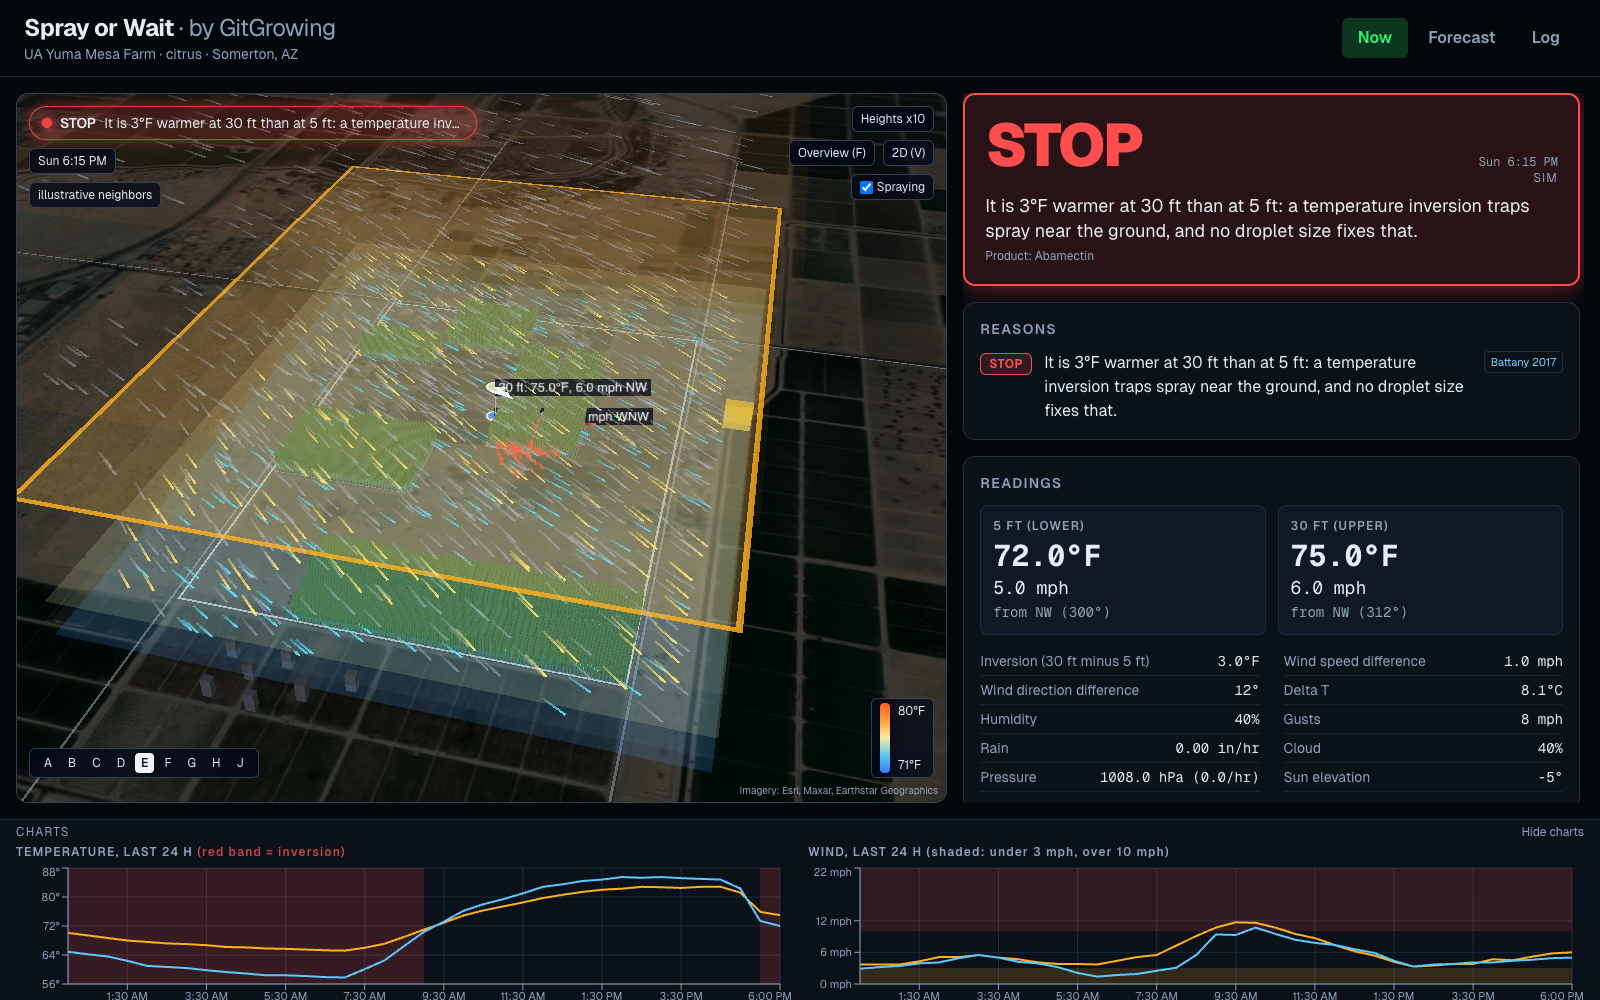
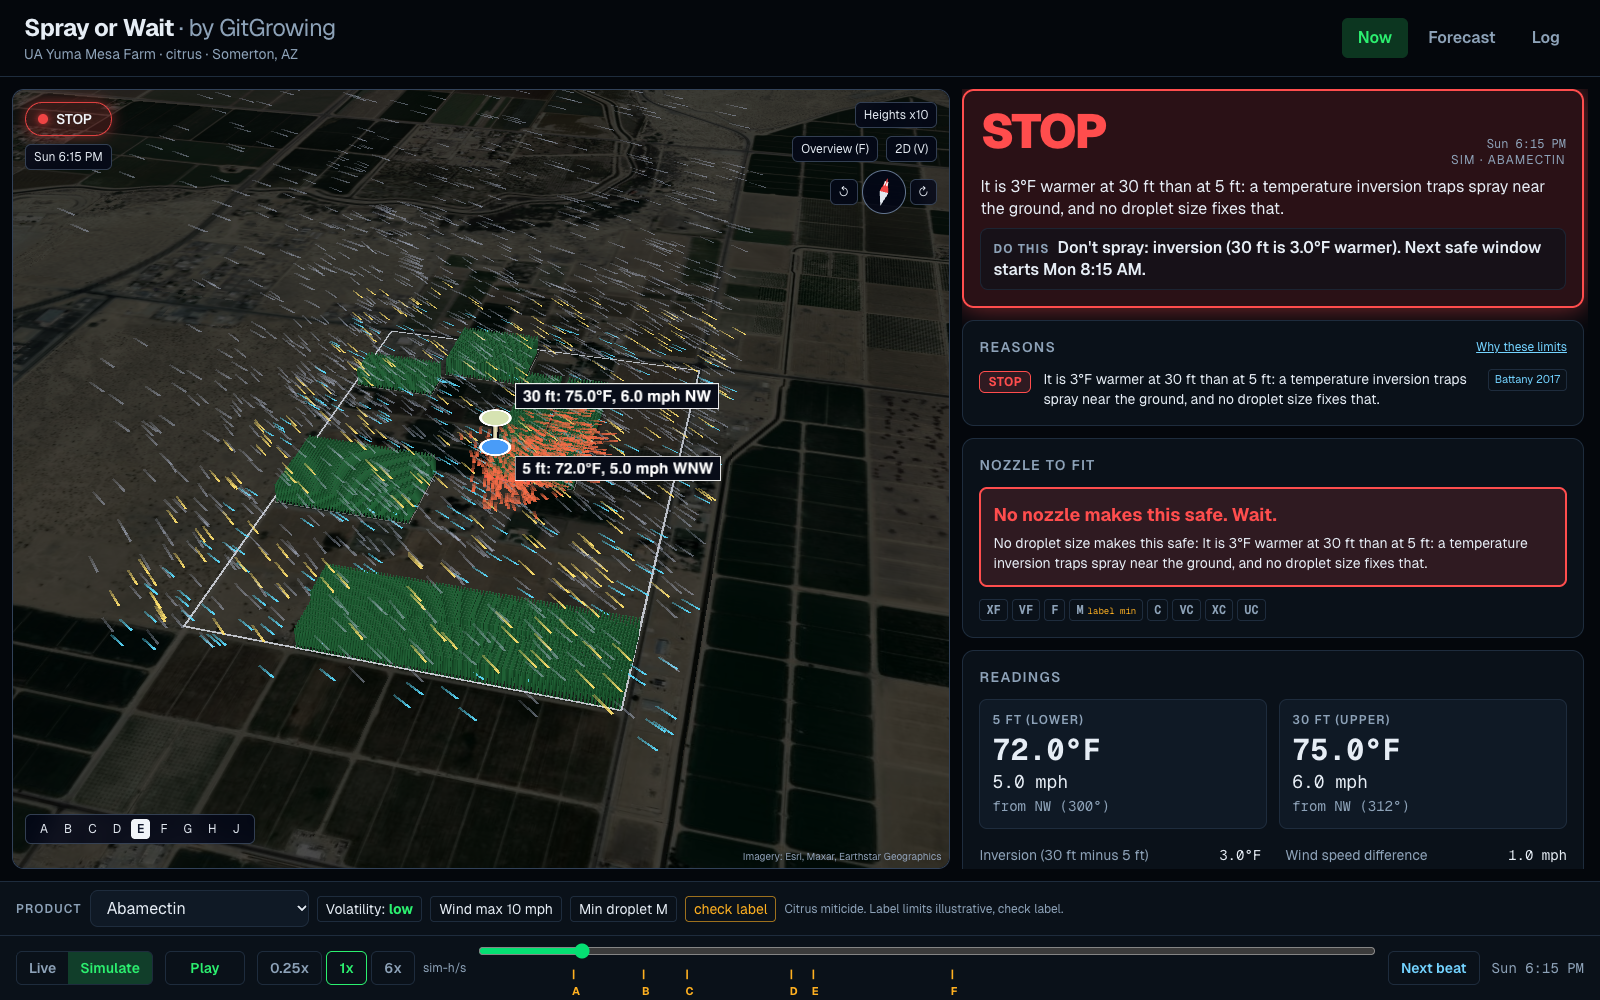
README and production screenshots for the redesigned Now tab and 3D map
Claude-Session: https://claude.ai/code/session_016NHWkkXNrecmjC3sPh7mjC

diff --git a/README.md b/README.md
@@ -7,11 +7,11 @@ Spray or Wait tells an orchard applicator at the University of Arizona Yuma Mesa
 Production: https://git-growing.vercel.app
 
 ## What it does
-- **Now:** status, reasons tagged with their source, recommended droplet class (ASABE S572.3), both tower heights side by side, a "tower vs single station" card, and a "Why these limits" panel listing every rule with its source and kind (standard, guidance or heuristic).
+- **Now:** the verdict with a one-line "Do this" action and any early warning, the reasons tagged with their source, the nozzle to fit (droplet class per ASABE S572.3, nozzle size per the TeeJet airblast chart and ISO 10625 colors), and both tower heights side by side. A "Why these limits" link lists every rule with its source and kind (standard, guidance or heuristic). The pesticide picker sits in the bottom bar.
 - **Speed up time:** plays a fixed, simulated week (2,016 five-minute frames) with six scripted beats. Status is computed live, so changing the product changes the verdicts.
-- **Forecast:** 7-day strip of safe and unsafe hours, the next safe window (at least 2 h of GO), an early-warning banner, and a 5 ft / 30 ft temperature chart with NWS mixing height.
+- **Forecast:** 7-day strip of safe and unsafe hours, the next safe window (at least 2 h of GO), an early-warning banner, and a 5 ft / 30 ft temperature chart with a tower selector.
 - **Log:** every status change and every sim-hour or live poll, stored in the browser, exportable as CSV.
-- **3D map:** MapLibre + deck.gl over Esri imagery. Farm blocks, about 23,000 trees, the tower, temperature layers, inversion lid, wind particles per height, drift, rain and storm effects. Heights are exaggerated 10x.
+- **3D map:** MapLibre + deck.gl over Esri imagery. Farm blocks, about 23,000 trees, the tower with 5 ft and 30 ft readings, wind particles per height, spray drift, rain and storm effects, a compass, and turn-left/right controls (buttons or arrow keys). Heights are exaggerated 10x.
 
 ## Run it
 ```
@@ -20,7 +20,7 @@ npm run dev          # http://localhost:3000
 npm test             # unit + demo-scenario tests
 npm run build && npm run start   # offline backup for the demo
 ```
-Simulate mode needs no network: the week, calibration, map tiles (`public/tiles`) and neighbor data are committed. Every live API has a committed snapshot fallback (`data/snapshots`). Add `?offline=1` to any API route to force the snapshot.
+Simulate mode needs no network: the week, calibration, and map tiles (`public/tiles`) are committed. Every live API has a committed snapshot fallback (`data/snapshots`). Add `?offline=1` to any API route to force the snapshot.
 
 Regenerate data (needs network): `npm run snapshot`, `npm run fetch:products`, `npm run fetch:tiles`, `npm run calibrate`, `npm run build-sim` (`-- --check` confirms the committed week rebuilds byte for byte).
 
@@ -28,8 +28,6 @@ Regenerate data (needs network): `npm run snapshot`, `npm run fetch:products`, `
 | Source | Used for |
 |---|---|
 | Open-Meteo forecast and historical-forecast APIs | Hourly weather at 2 m, 10 m and 80 m+, the 7-day forecast, the sim week (Oct 25-31, 2026) and calibration (2024-2026) |
-| NWS gridpoint API | Mixing height and transport wind (context only, not a rule input) |
-| AZMet (az36 Yuma South, fallbacks az02, az14) | Real regional station reading on the station card (Live mode) |
 | PubChem PUG View | Vapor pressure of each active ingredient, banded with the PPDB/EFSA thresholds |
 | Esri World Imagery | Basemap tiles (committed for zoom 13-17) |
 
@@ -40,7 +38,6 @@ Battany 2017 (inversion 1.8°F between heights), Faber 2015 UC ANR (inversion ti
 - **The tower is simulated.** There is no physical tower. 5 ft and 30 ft values are derived from Open-Meteo model levels, with the 30 ft temperature calibrated (k = 1.348) so the median nightly inversion matches Battany's published 2-3°C.
 - **The week is simulated.** A real October week at the farm with scripted beats overlaid, including a simulated frontal storm (Beat F).
 - **Labels are illustrative.** Wind limits and minimum droplet classes per product are illustrative, flagged "check label".
-- **Neighbors are illustrative.** Overpass was unavailable, so the neighbor buildings, school and road are hand-placed and marked "illustrative".
 - **Blocks were traced by hand** from Esri imagery. Block names are our labels.
 - **Live readings wobble.** The Live reading adds a small, deterministic per-minute wobble so the sensor looks alive. It never changes the inversion or crosses a wind cutoff.
 
@@ -58,7 +55,7 @@ Press the backtick key to show the hidden demo panel. Hotkeys work with the pane
 | L | Switch Live / Simulate |
 
 1. **Live:** open the page. It shows the current Yuma reading and a "cached data" chip if a source fell back.
-2. **Beat A (press 1), the tiebreaker:** the 5 ft station reads 72°F and 5 mph and says GO. The tower sees 30 ft is 3°F warmer and says STOP: an inversion, and no droplet size fixes it. In 3D, the warm slab sits over the cool one, the lid glows, and drift flattens into a sheet.
+2. **Beat A (press 1), the tiebreaker:** at 5 ft it reads 72°F and 5 mph, which a single ground station would call fine. The tower's 30 ft sensor is 3°F warmer, so it says STOP: an inversion, and no nozzle fixes it. In 3D, compare the two tower labels and watch the drift flatten into a sideways sheet.
 3. **Beat B (2):** the inversion breaks after sunrise and a GO window opens.
 4. **Beats C and D (3, 4):** wind at 30 ft ramps past the label limit, then the wind direction splits 120° between heights. The arrows and particle streams pull apart.
 5. **Beat E (5):** a calm, clear evening. The timing hint warns before the inversion fully forms.
